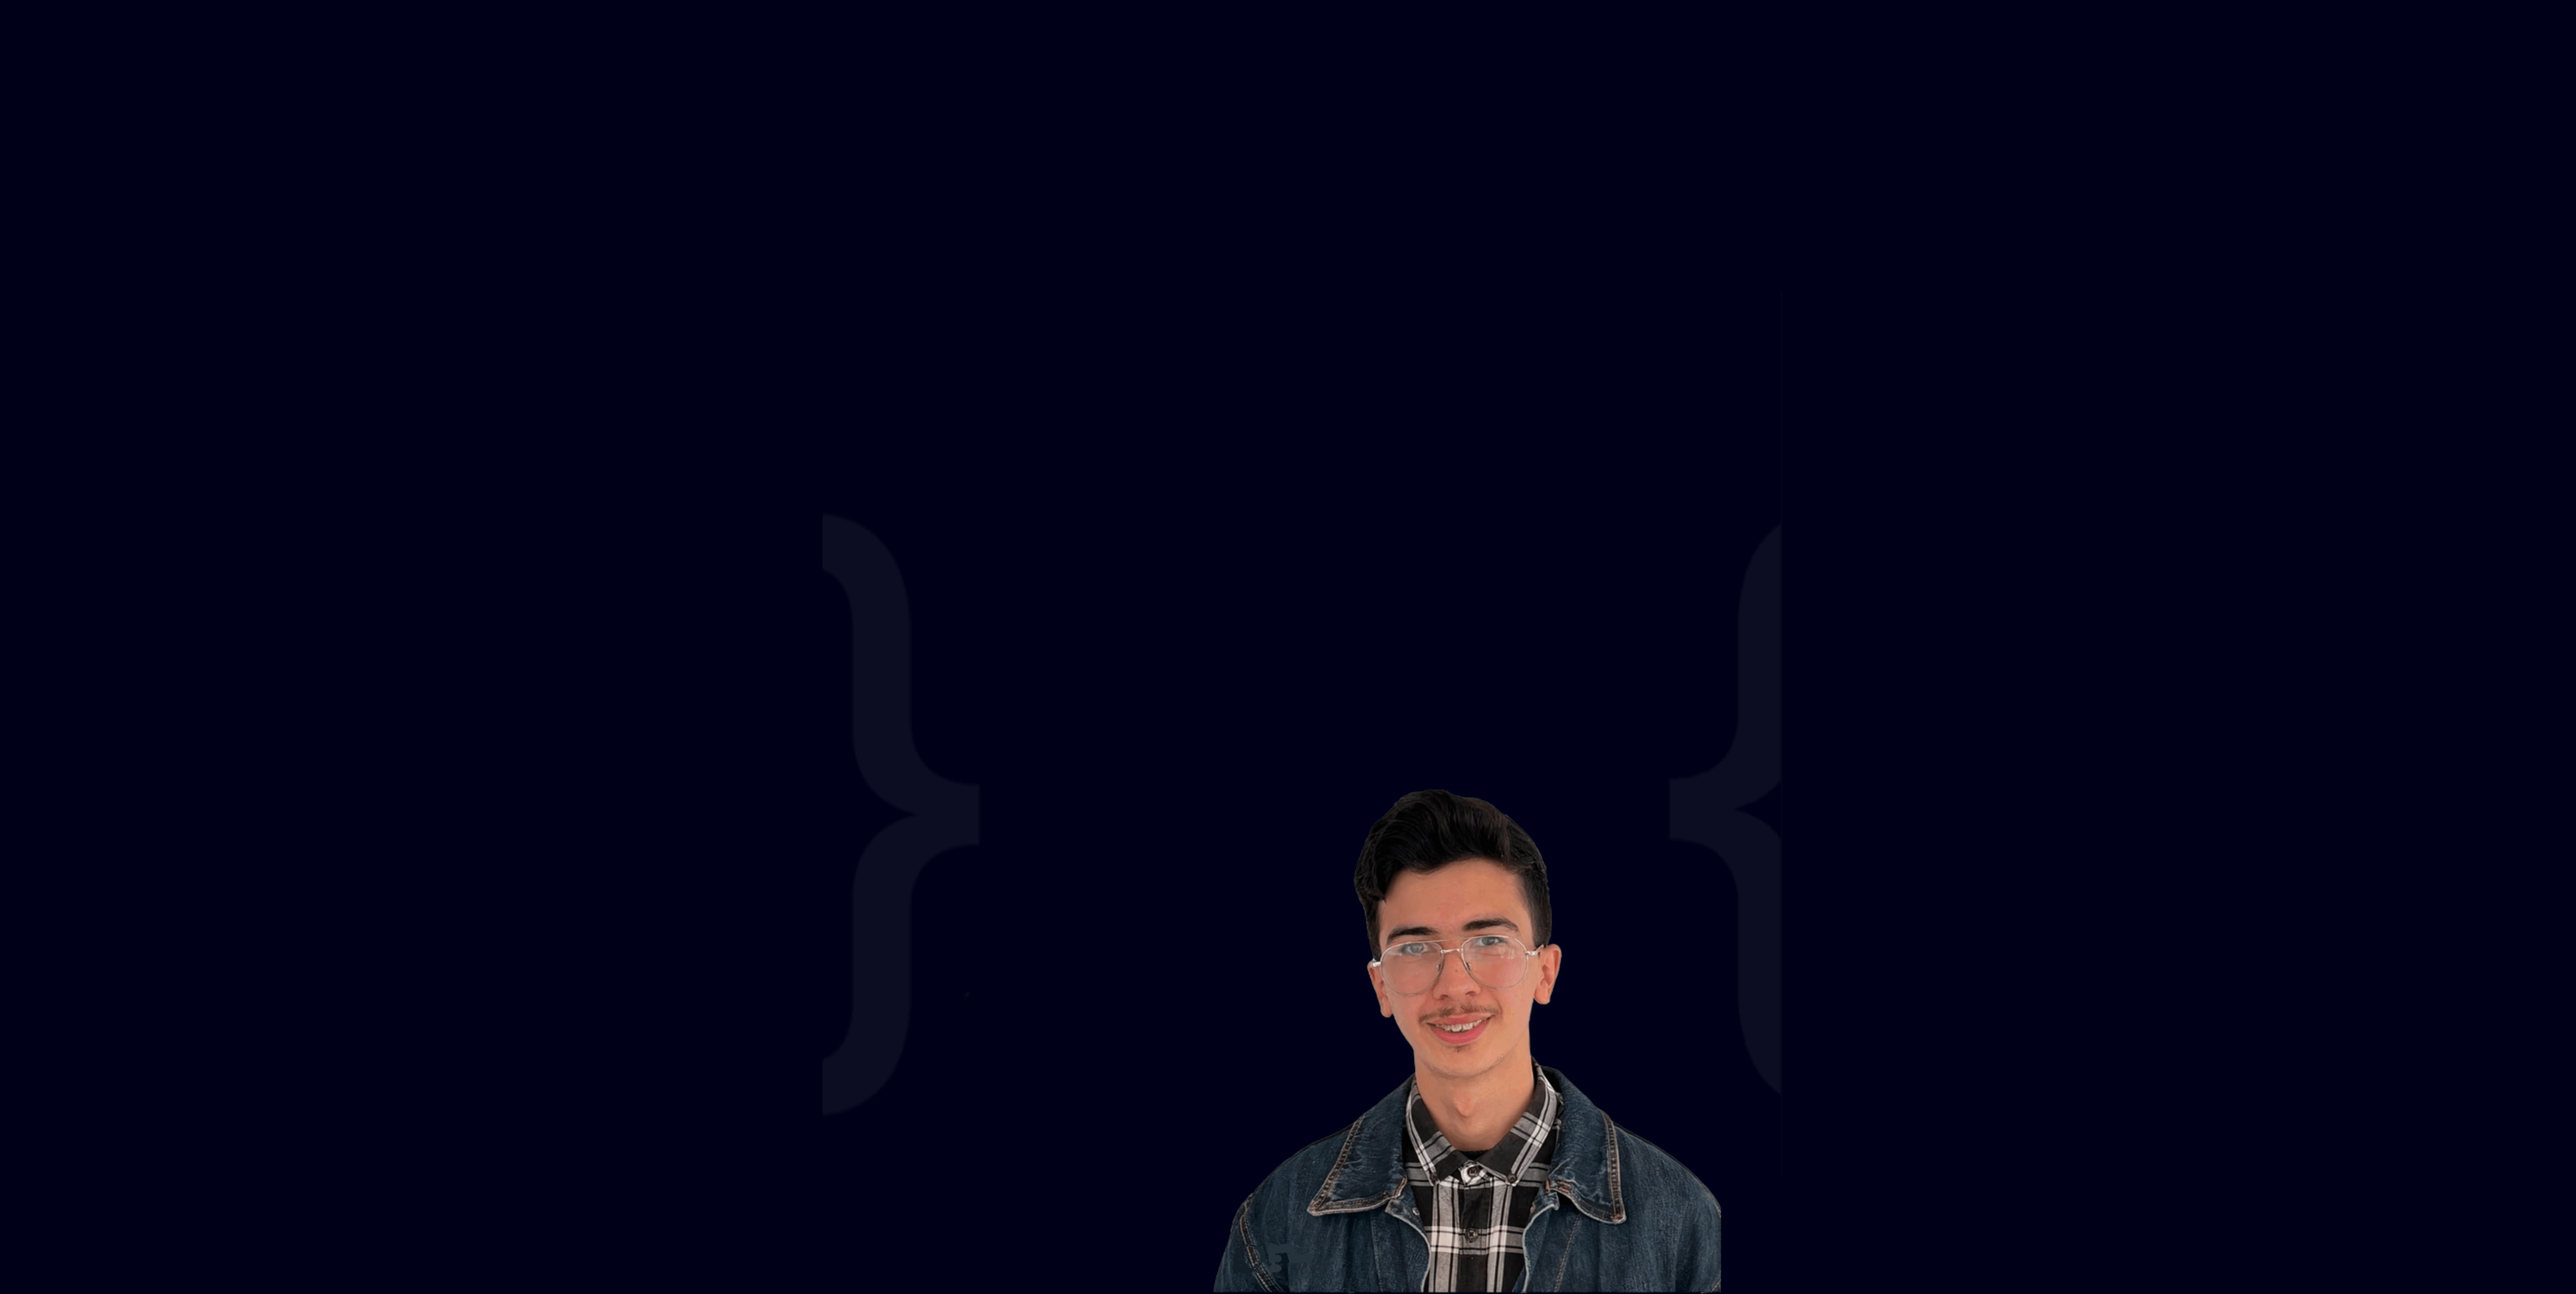
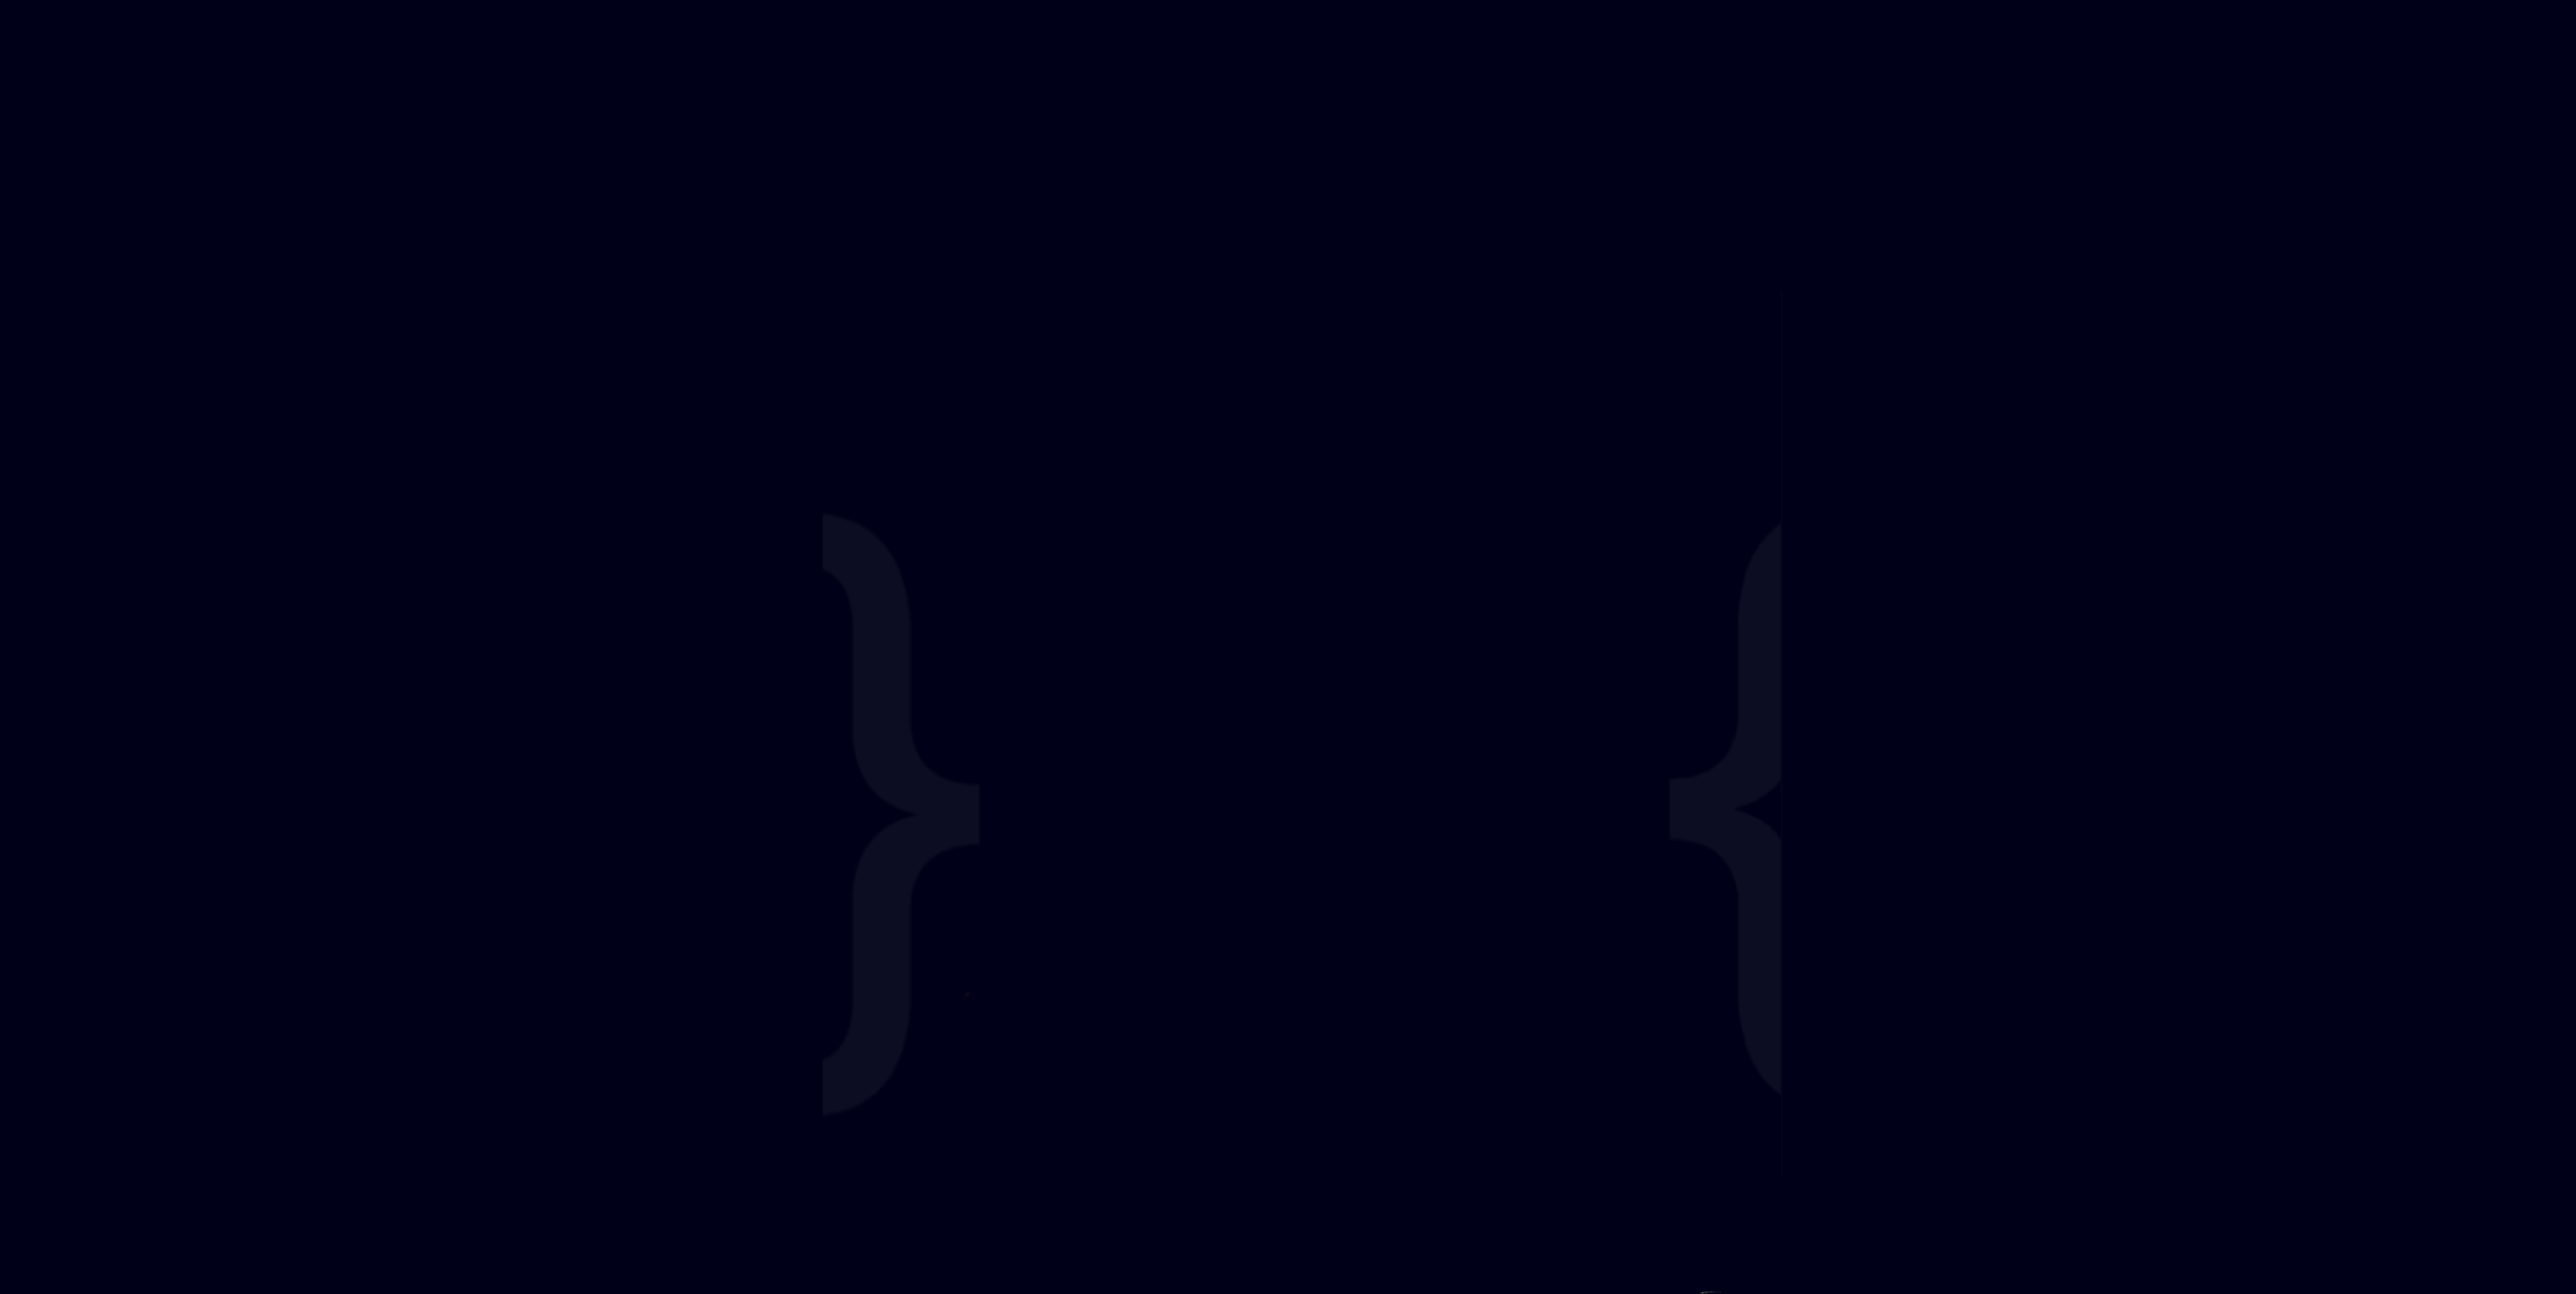
change the profile photo

Changed region(s): [[0.4677, 0.625, 0.686, 1.0]]

diff --git a/style.css b/style.css
@@ -113,7 +113,7 @@ header {
 }
 
 .main{
-    padding-left: 55px;
+    padding: 0 55px;
     width: 100%;
     min-height: 100vh;
     display: flex;
@@ -122,6 +122,49 @@ header {
     background-size: cover;
     background-position: center;
     background-attachment: fixed;
+}
+
+.hero-container {
+    display: flex;
+    align-items: center;
+    justify-content: flex-start;
+    width: 100%;
+    max-width: 1200px;
+    margin: 0 auto;
+    gap: 10px;
+}
+
+.hero-content {
+    flex: 0 0 450px;
+    max-width: 450px;
+}
+
+.hero-image {
+    flex: 0 0 auto;
+    margin-left: 270px;
+}
+
+.image-card {
+    background: rgba(255, 255, 255, 0.1);
+    backdrop-filter: blur(10px);
+    border-radius: 20px;
+    padding: 20px;
+    border: 2px solid rgba(255, 255, 255, 0.2);
+    box-shadow: 0 15px 35px rgba(0, 0, 0, 0.1);
+    transition: all 0.3s ease;
+}
+
+.image-card:hover {
+    transform: translateY(-10px);
+    box-shadow: 0 25px 50px rgba(0, 0, 0, 0.15);
+}
+
+.profile-image {
+    width: 400px;
+    height: 480px;
+    object-fit: cover;
+    border-radius: 15px;
+    display: block;
 }
 .main h2{
     color: aliceblue;
@@ -871,6 +914,33 @@ cursor: default;
         padding: 6px 12px;
     }
    
+    .main {
+        padding: 80px 18px 20px 18px;
+    }
+    
+    .hero-container {
+        flex-direction: column;
+        text-align: center;
+        gap: 30px;
+    }
+    
+    .hero-content {
+        max-width: 100%;
+    }
+    
+    .hero-image {
+        margin-left: 0;
+    }
+    
+    .image-card {
+        padding: 12px;
+    }
+    
+    .profile-image {
+        width: 280px;
+        height: 350px;
+    }
+    
     .main h2{
         font-size: 1.0em;
     }
@@ -918,12 +988,68 @@ cursor: default;
         background-size: cover;
         background-position: center;
         background-attachment: fixed;
+        padding: 80px 15px 20px 15px;
+        min-height: 90vh;
+        display: flex;
+        align-items: center;
+        justify-content: center;
     }
+    
+    .hero-container {
+        flex-direction: column;
+        text-align: center;
+        gap: 0px;
+        justify-content: center;
+        align-items: center;
+    }
+    
+    .hero-content {
+        max-width: 100%;
+        margin-bottom: -30px;
+        padding: 0px;
+        z-index: 2;
+        position: relative;
+    }
+    
+    .hero-image {
+        margin-left: 0;
+        margin-top: -30px;
+        z-index: 1;
+        position: relative;
+    }
+    
+    .profile-image {
+        width: 220px;
+        height: 280px;
+    }
+    
     .main h2{
-        font-size: 1.0em;
+        font-size: 1.5em;
+        margin-bottom: 0px;
     }
     .main h3{
         font-size: 1.4em;
+        margin-bottom: 15px;
+        margin-top: 5px;
+    }
+    
+    .main-btn {
+        margin-bottom: 10px;
+        margin-top: 3px;
+        display: block;
+        width: 200px;
+        margin-left: auto;
+        margin-right: auto;
+    }
+    
+    .social a {
+        font-size: 1.4em;
+        padding-right: 20px;
+    }
+    
+    .social {
+        margin-top: 10px;
+        margin-bottom: 20px;
     }
 }
 @media (max-width:300px){

diff --git a/index.html b/index.html
@@ -22,16 +22,23 @@
 </nav>
     </header>
     <section class="main" >
-        <div data-aos="fade-right" data-aos-duration="650" data-aos-delay="250">
-            <h2 >Hello, I'm Yassine <br><span>Software Developer</span></h2>
-            <h3>Business computing student</h3>
-            <a href="#projects" class="main-btn">View My Work</a>
-            <a href="https://drive.google.com/file/d/1SC_I6a0p-n9G_bF6acMFRMldugB0Lfj0/view?usp=sharing" target="_blank" class="main-btn">View my Cv</a>
-            <div class="social">
-            <a href="https://www.linkedin.com/in/yassin-ben-yedder" target="_blank"><i class="fa-brands fa-linkedin" ></i></a>
-            <a href="https://github.com/yassinebenyedder" target="_blank"><i class="fa-brands fa-github"  ></i></a>
-            <a href="https://x.com/Yassinbenyedde1" target="_blank"><i class="fa-brands fa-x-twitter" ></i></a>
-            <a href="https://www.instagram.com/ben_yedder_yassin/profilecard/"" target="_blank"><i class="fa-brands fa-instagram"  ></i></a>
+        <div class="hero-container">
+            <div class="hero-content" data-aos="fade-right" data-aos-duration="650" data-aos-delay="250">
+                <h2 >Hello, I'm Yassine <br><span>Software Developer</span></h2>
+                <h3>Business computing student</h3>
+                <a href="#projects" class="main-btn">View My Work</a>
+                <a href="https://drive.google.com/file/d/1SC_I6a0p-n9G_bF6acMFRMldugB0Lfj0/view?usp=sharing" target="_blank" class="main-btn">View my Cv</a>
+                <div class="social">
+                <a href="https://www.linkedin.com/in/yassin-ben-yedder" target="_blank"><i class="fa-brands fa-linkedin" ></i></a>
+                <a href="https://github.com/yassinebenyedder" target="_blank"><i class="fa-brands fa-github"  ></i></a>
+                <a href="https://x.com/Yassinbenyedde1" target="_blank"><i class="fa-brands fa-x-twitter" ></i></a>
+                <a href="https://www.instagram.com/ben_yedder_yassin/profilecard/"" target="_blank"><i class="fa-brands fa-instagram"  ></i></a>
+                </div>
+            </div>
+            <div class="hero-image" data-aos="fade-left" data-aos-duration="650" data-aos-delay="400">
+                <div class="image-card">
+                    <img src="img/the one.jpeg" alt="Yassine Ben Yedder" class="profile-image">
+                </div>
             </div>
         </div>
     </section>
